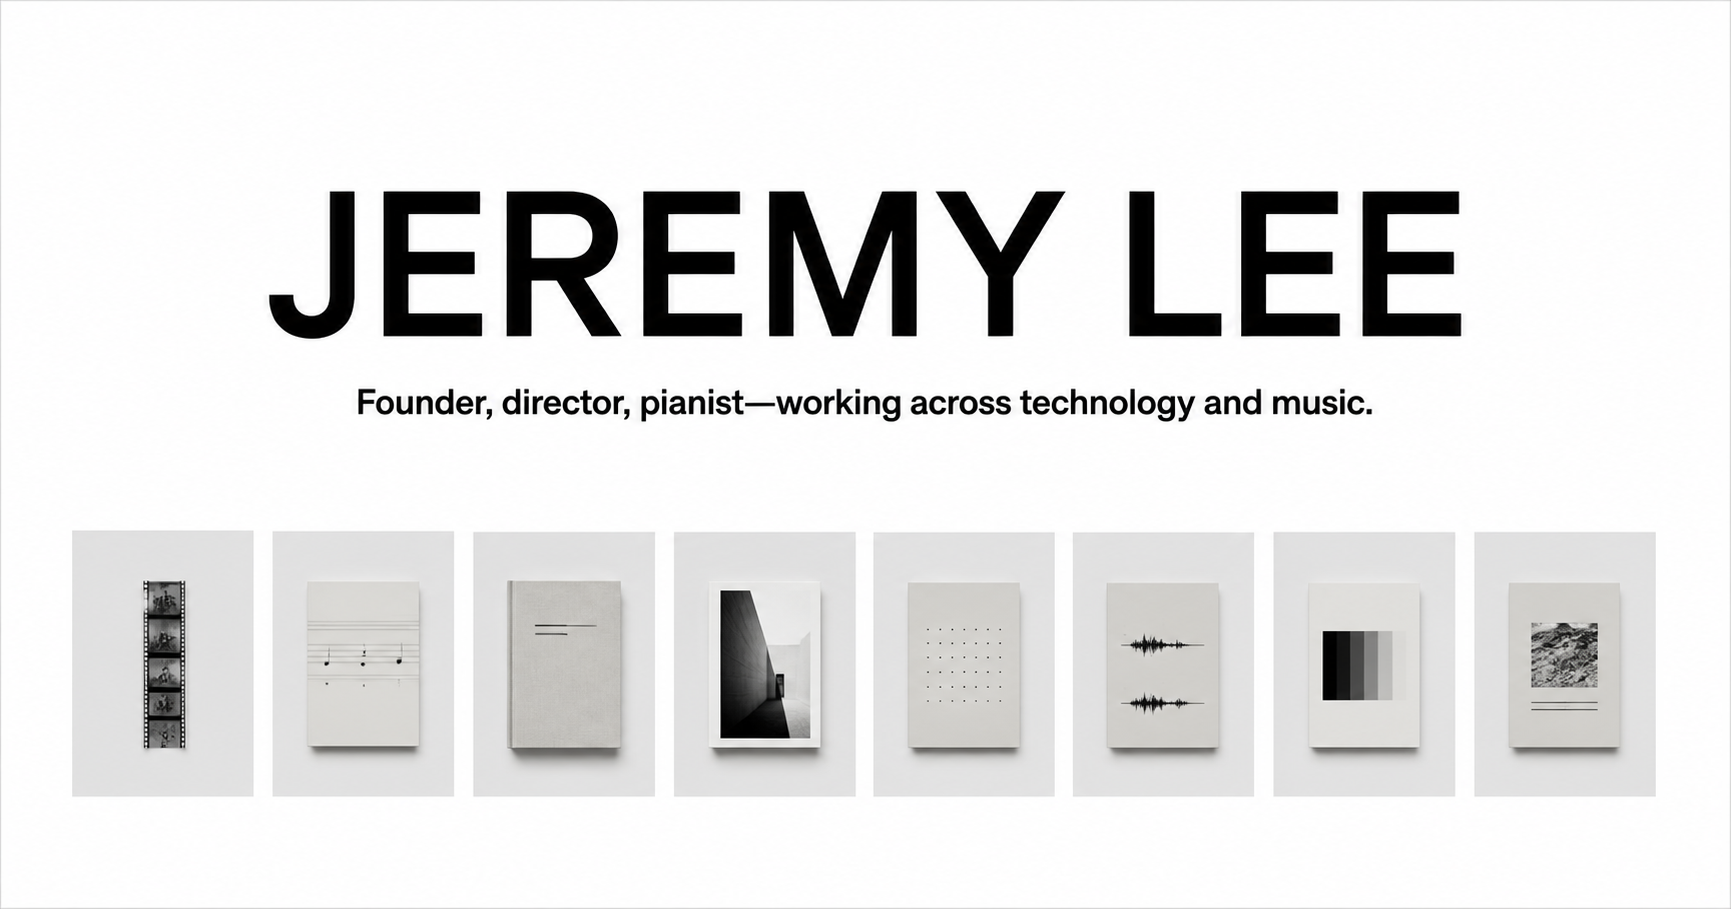
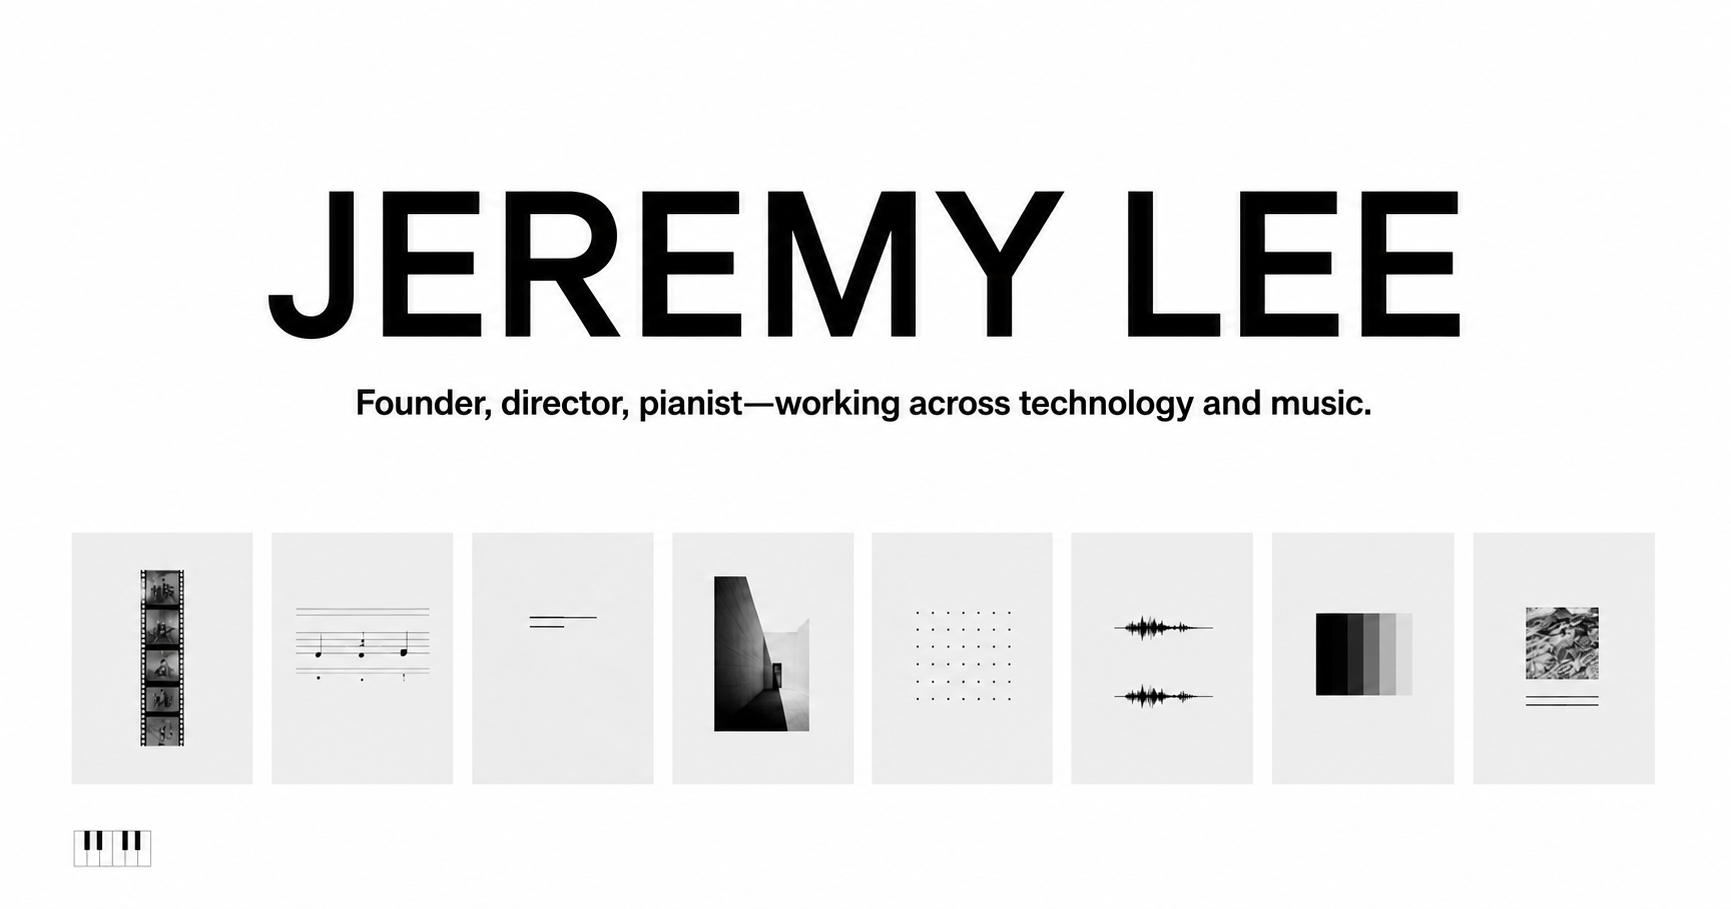
flatten portfolio cards and add footer piano

diff --git a/src/App.css b/src/App.css
@@ -82,12 +82,6 @@ a {
   font-size: 11px;
   font-weight: 700;
   text-decoration: none;
-  border-bottom: 1px solid transparent;
-}
-
-.skip-to-work:hover,
-.skip-to-work:focus-visible {
-  border-bottom-color: var(--ink);
 }
 
 .portfolio-section {
@@ -118,20 +112,6 @@ a {
   isolation: isolate;
 }
 
-.portfolio-card::after {
-  content: '';
-  position: absolute;
-  inset: 0;
-  border: 1px solid transparent;
-  pointer-events: none;
-  transition: border-color 180ms ease;
-}
-
-.portfolio-card:hover::after,
-.portfolio-card:focus-visible::after {
-  border-color: var(--ink);
-}
-
 .portfolio-card:focus-visible {
   outline: 2px solid var(--ink);
   outline-offset: 3px;
@@ -146,23 +126,18 @@ a {
 }
 
 .portfolio-image {
-  width: 82%;
-  height: 82%;
+  display: block;
+  width: auto;
+  height: auto;
+  max-width: 82%;
+  max-height: 82%;
   object-fit: contain;
-  box-shadow: 0 17px 24px rgba(0, 0, 0, 0.16);
-  transition: transform 240ms ease, box-shadow 240ms ease;
-}
-
-.portfolio-card:hover .portfolio-image,
-.portfolio-card:focus-visible .portfolio-image {
-  transform: translateY(-5px);
-  box-shadow: 0 23px 30px rgba(0, 0, 0, 0.2);
 }
 
 .portfolio-caption {
   position: absolute;
   left: 18px;
-  right: 52px;
+  right: 18px;
   bottom: 16px;
   display: flex;
   flex-direction: column;
@@ -185,24 +160,6 @@ a {
   white-space: nowrap;
 }
 
-.portfolio-action {
-  position: absolute;
-  right: 18px;
-  bottom: 17px;
-  width: 22px;
-  height: 22px;
-  border: 1px solid var(--ink);
-  border-radius: 50%;
-  display: grid;
-  place-items: center;
-  font-size: 9px;
-}
-
-.portfolio-action svg {
-  width: 7px;
-  height: 7px;
-}
-
 .about-section {
   display: grid;
   grid-template-columns: minmax(0, 1.7fr) minmax(260px, 0.75fr);
@@ -216,16 +173,10 @@ a {
   max-width: 880px;
 }
 
-.about-copy h2,
-.about-links h2,
 .film-modal h2 {
   margin: 0;
   font-size: inherit;
   line-height: inherit;
-}
-
-.about-copy h2 {
-  font-weight: 700;
 }
 
 .about-copy p,
@@ -247,12 +198,6 @@ a {
   text-underline-offset: 3px;
 }
 
-.about-copy a:hover,
-.about-links a:hover,
-.footer a:hover {
-  text-decoration-style: double;
-}
-
 .about-links {
   display: flex;
   flex-direction: column;
@@ -264,15 +209,10 @@ a {
   font-weight: 700;
 }
 
-.about-links h2 {
-  margin-bottom: 4px;
-}
-
 .about-links a {
   text-decoration: none;
 }
 
-.about-links a:hover,
 .about-links a:focus-visible {
   text-decoration: underline;
 }
@@ -290,6 +230,46 @@ a {
 
 .footer a {
   text-decoration: none;
+}
+
+.footer-mark {
+  display: flex;
+  align-items: flex-end;
+  gap: 14px;
+}
+
+.mini-piano {
+  position: relative;
+  width: 76px;
+  height: 30px;
+  display: grid;
+  grid-template-columns: repeat(4, 1fr);
+  border-top: 1px solid var(--ink);
+  border-right: 1px solid var(--ink);
+  border-bottom: 1px solid var(--ink);
+  background: var(--paper);
+}
+
+.mini-piano-white {
+  border-left: 1px solid var(--ink);
+}
+
+.mini-piano-black {
+  position: absolute;
+  top: 0;
+  z-index: 1;
+  width: 10px;
+  height: 18px;
+  transform: translateX(-50%);
+  background: var(--ink);
+}
+
+.mini-piano-black--one {
+  left: 25%;
+}
+
+.mini-piano-black--two {
+  left: 50%;
 }
 
 .modal-backdrop {
@@ -449,13 +429,13 @@ a {
   }
 
   .portfolio-image {
-    width: 90%;
-    height: 90%;
+    max-width: 90%;
+    max-height: 90%;
   }
 
   .portfolio-caption {
     left: 10px;
-    right: 34px;
+    right: 10px;
     bottom: 10px;
   }
 
@@ -465,13 +445,6 @@ a {
 
   .portfolio-caption strong {
     font-size: 9px;
-  }
-
-  .portfolio-action {
-    right: 9px;
-    bottom: 10px;
-    width: 18px;
-    height: 18px;
   }
 
   .about-section {
@@ -488,6 +461,12 @@ a {
 
   .footer {
     margin: 0 14px;
+  }
+
+  .footer-mark {
+    align-items: flex-start;
+    flex-direction: column;
+    gap: 9px;
   }
 
   .modal-backdrop {
@@ -510,9 +489,5 @@ a {
 @media (prefers-reduced-motion: reduce) {
   html {
     scroll-behavior: auto;
-  }
-
-  .portfolio-image {
-    transition: none;
   }
 }

diff --git a/src/App.js b/src/App.js
@@ -74,7 +74,7 @@ const formatTime = (seconds) => {
   return minutes + ':' + remainder;
 };
 
-function PortfolioCard({ item, isPlaying, onSelect }) {
+function PortfolioCard({ item, onSelect }) {
   const content = (
     <>
       <div className="portfolio-image-wrap">
@@ -84,9 +84,6 @@ function PortfolioCard({ item, isPlaying, onSelect }) {
         <span>{item.category}</span>
         <strong>{item.title}</strong>
       </div>
-      <span className="portfolio-action" aria-hidden="true">
-        {item.type === 'music' && isPlaying ? <FaPause /> : item.type === 'link' ? '↗' : <FaPlay />}
-      </span>
     </>
   );
 
@@ -102,6 +99,19 @@ function PortfolioCard({ item, isPlaying, onSelect }) {
     <button className="portfolio-card" type="button" onClick={() => onSelect(item)}>
       {content}
     </button>
+  );
+}
+
+function MiniPiano() {
+  return (
+    <div className="mini-piano" aria-hidden="true">
+      <span className="mini-piano-white" />
+      <span className="mini-piano-white" />
+      <span className="mini-piano-white" />
+      <span className="mini-piano-white" />
+      <span className="mini-piano-black mini-piano-black--one" />
+      <span className="mini-piano-black mini-piano-black--two" />
+    </div>
   );
 }
 
@@ -179,7 +189,6 @@ function App() {
               key={item.id}
               item={item}
               onSelect={selectItem}
-              isPlaying={item.type === 'music' && item.id === activeTrackId && isPlaying}
             />
           ))}
         </div>
@@ -187,7 +196,6 @@ function App() {
 
       <section id="about" className="about-section">
         <div className="about-copy">
-          <h2>More info than you need to know:</h2>
           <p>
             I live in San Francisco and am the co-founder and CEO of{' '}
             <a href="https://rubbrband.com">Rubbrband</a>, a modern content studio. We build AI tools for
@@ -206,7 +214,6 @@ function App() {
 
         <aside className="about-links" aria-label="Contact and profile links">
           <p className="role">Co-founder &amp; CEO, Rubbrband</p>
-          <h2>ONLINE/OFFLINE</h2>
           <a href="mailto:jeremy@rubbrband.com">Email</a>
           <a href="https://www.linkedin.com/in/jeremy-l-a90742b8/">LinkedIn</a>
           <a href="https://twitter.com/jrmyjlee">Twitter / X</a>
@@ -215,7 +222,10 @@ function App() {
       </section>
 
       <footer className="footer">
-        <span>© {new Date().getFullYear()} Jeremy Lee</span>
+        <div className="footer-mark">
+          <MiniPiano />
+          <span>© {new Date().getFullYear()} Jeremy Lee</span>
+        </div>
         <a href="#top" onClick={() => window.scrollTo({ top: 0, behavior: 'smooth' })}>Back to top ↑</a>
       </footer>
 

diff --git a/src/App.test.js b/src/App.test.js
@@ -4,5 +4,7 @@ import App from './App';
 test('renders Jeremy Lee portfolio', () => {
   render(<App />);
   expect(screen.getByRole('heading', { name: /jeremy lee/i })).toBeInTheDocument();
-  expect(screen.getByText(/more info than you need to know/i)).toBeInTheDocument();
+  expect(screen.getByText(/i live in san francisco/i)).toBeInTheDocument();
+  expect(screen.queryByText(/more info than you need to know/i)).not.toBeInTheDocument();
+  expect(screen.queryByText(/online\/offline/i)).not.toBeInTheDocument();
 });
